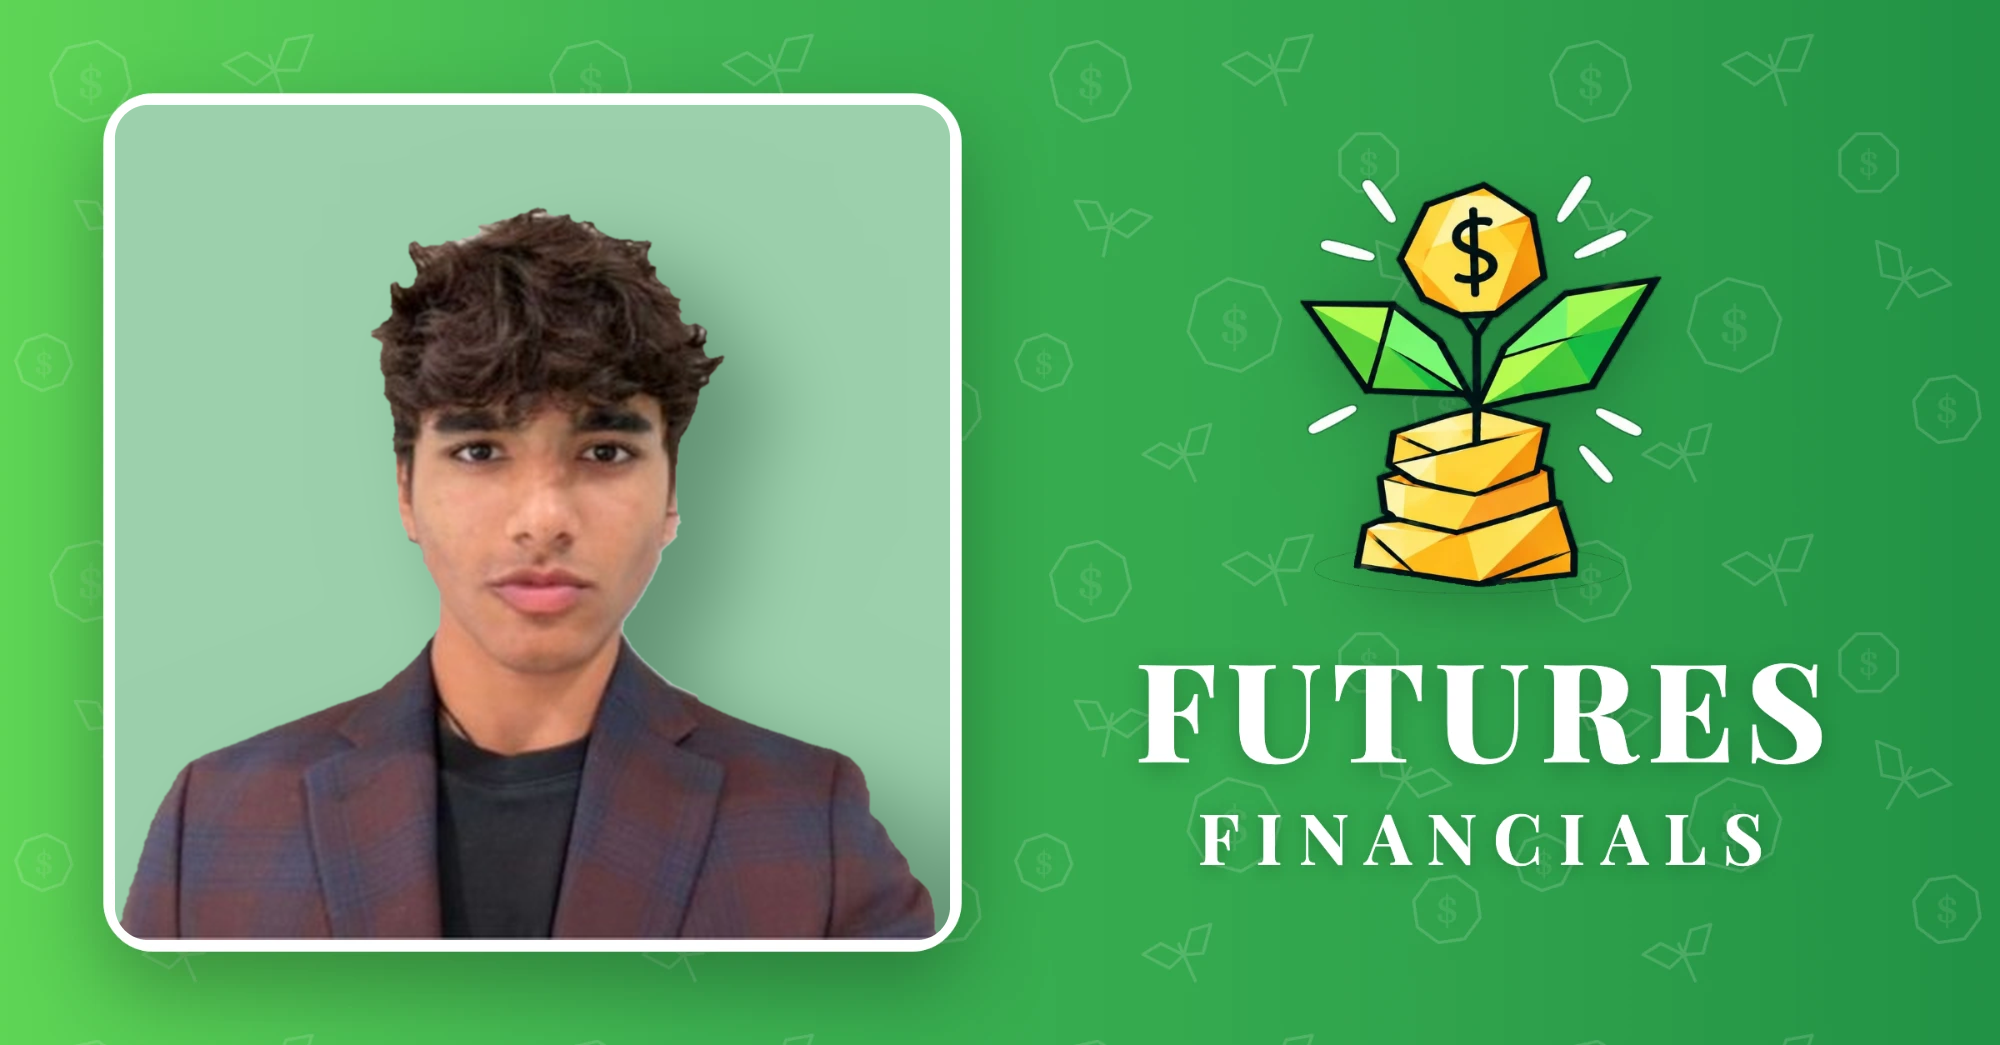
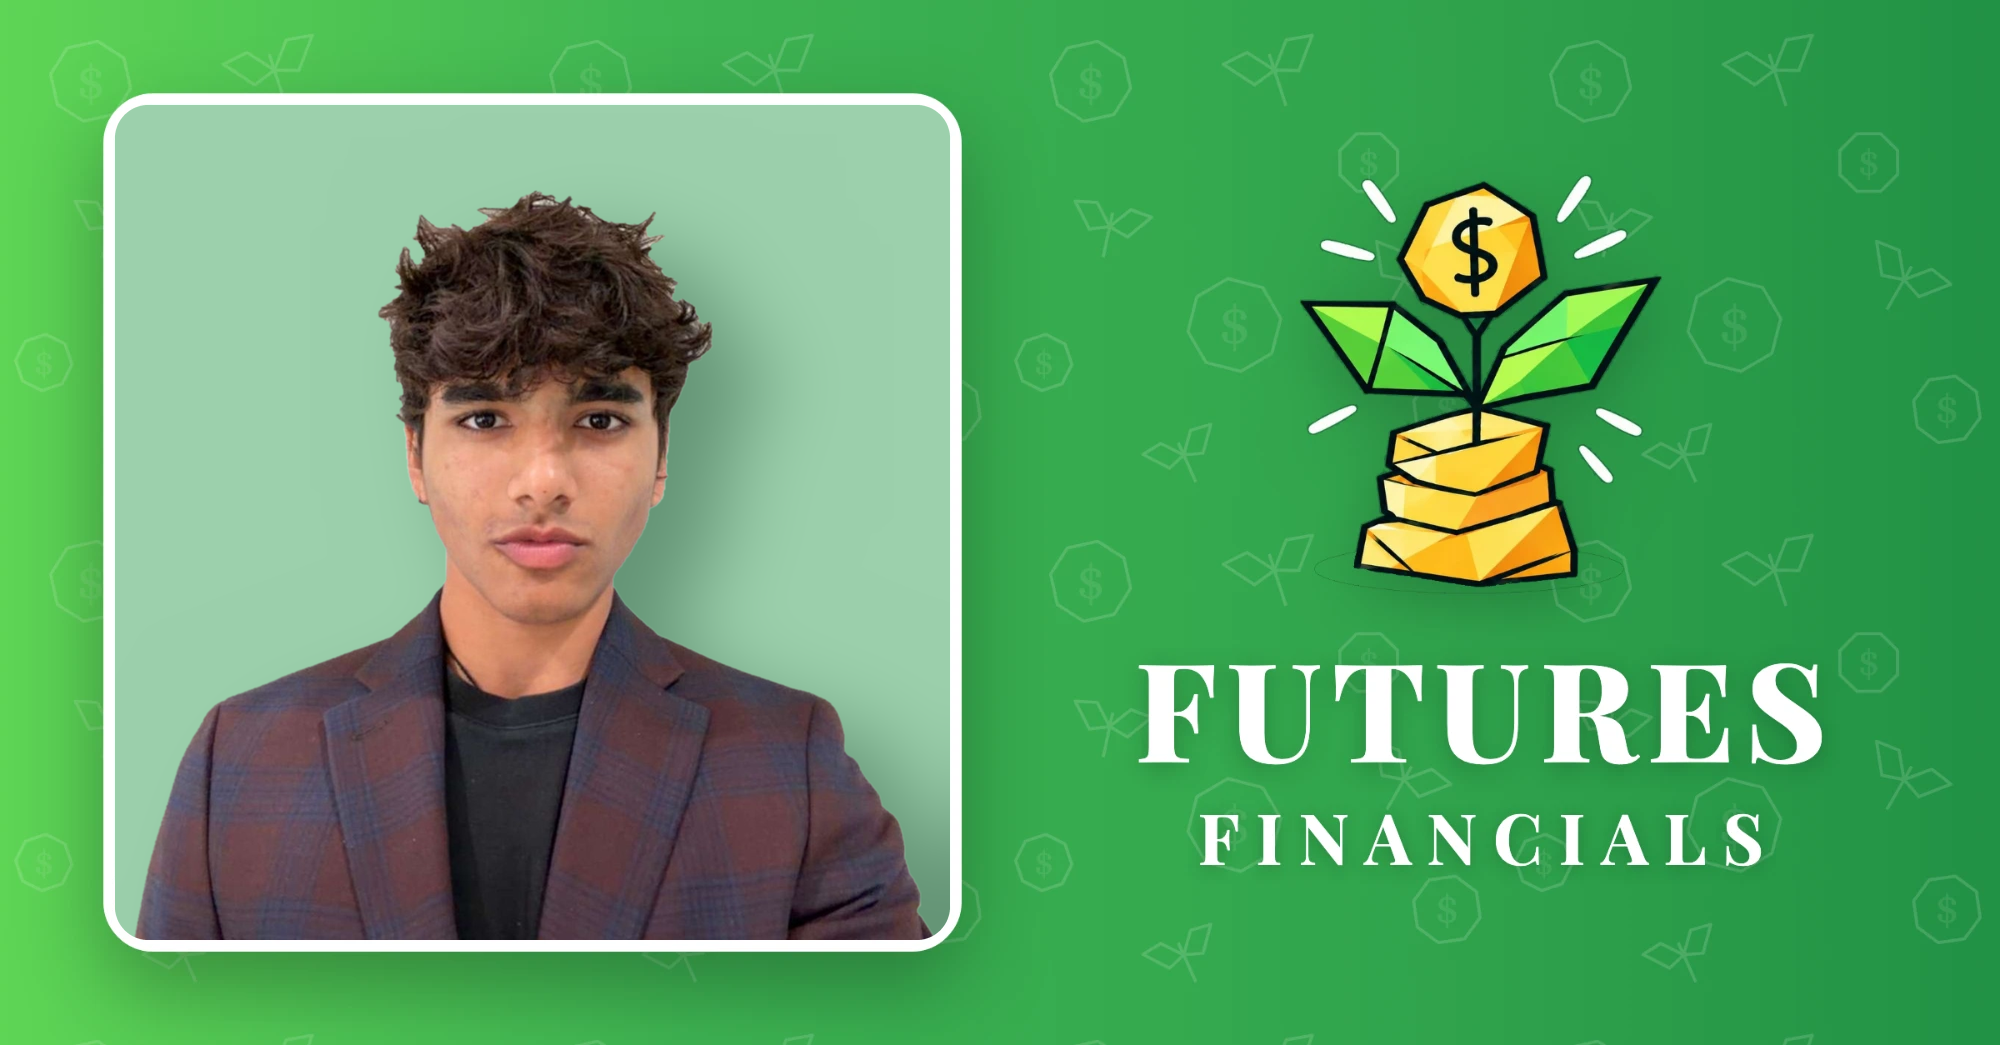
Rework Hans's photo from a sharper source; restack the left hero tiles
Hero: the FOX 5 tile moves from mid-left to the top-left corner, mirroring
the tile opposite, and the bottom-left tile lifts from 4% to 13% off the
bottom so that side reads as spread out rather than stacked. The mid-height
bleed rule is gone with it, since nothing sits at that height now. Between
the two left tiles there is now 270-540px of clear space depending on width.

Hans: new source is 1125x1125 against the old 400x400. It arrived as a phone
screenshot, so the letterbox bars were measured off by row flatness (rows
0-245 and 1760-1999) and cropped, then squared with 9% headroom to match the
rest of the set.

The wall behind him carries a soft cast shadow, so it is not one flat colour
and a distance-from-sampled-colour test would have kept the shadow as
subject. The mask treats the wall as bright and desaturated instead, which
the subject never is: his hair and shirt are dark, his skin and blazer are
saturated.

Changed region(s): [[0.062, 0.1837, 0.465, 0.9187], [0.155, 0.8268, 0.186, 0.8574]]

diff --git a/css/styles.css b/css/styles.css
@@ -1927,19 +1927,13 @@ h1 .hl,
   .hm-tile--a { top: calc(var(--header-h) + 1.2rem); left: 19%;  width: 14%; aspect-ratio: 4/3; }
   .hm-tile--f { top: calc(var(--header-h) + 0.8rem); right: 23%; width: 13%; aspect-ratio: 16/10; }
   .hm-tile--c { top: calc(var(--header-h) + 2rem);   right: -3%; width: 16%; aspect-ratio: 4/3; }
-  /* Sits on the left edge at mid height, where the top-left corner was
-     already carrying two tiles. Bled well off the edge: the wordmark is
-     widest at exactly this height, so only a sliver belongs on screen. */
-  .hm-tile--g { top: 50%; transform: translateY(-50%);
-                left: -7%; width: 15%; aspect-ratio: 16/9; }
-  .hm-tile--b { bottom: 4%; left: -4%;  width: 17%; aspect-ratio: 4/3; }
+  /* Top-left, mirroring the tile in the opposite corner. */
+  .hm-tile--g { top: calc(var(--header-h) + 2rem);   left: -3%;  width: 16%; aspect-ratio: 16/9; }
+  /* Lifted off the bottom edge so the left side reads as spread out rather
+     than stacked in the corner. */
+  .hm-tile--b { bottom: 13%; left: -4%;  width: 17%; aspect-ratio: 4/3; }
   .hm-tile--d { bottom: 6%; left: 21%;  width: 14%; aspect-ratio: 3/2; }
   .hm-tile--e { bottom: 5%; right: 4%;  width: 14%; aspect-ratio: 3/2; }
-}
-/* Under ~1280 the wordmark runs almost to the edge (69px in at 1000px wide),
-   so the mid-height tile has to bleed further out to stay clear of it. */
-@media (min-width: 1000px) and (max-width: 1279px) {
-  .hm-tile--g { left: -11%; width: 16%; }
 }
 @media (min-width: 1500px) {
   .hm-tile--a { left: 21%; width: 12%; }
